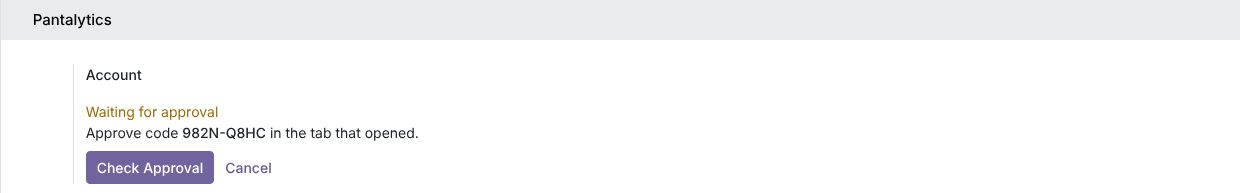
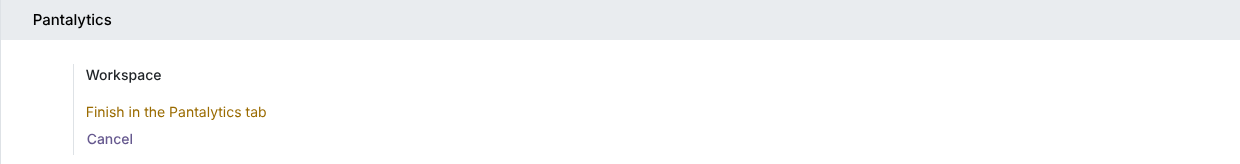
Settings: one verb, one thing: connect to a Pantalytics workspace
The Workspace row shows the button, the wait, or which workspace it is
connected to with Disconnect beside it. No pairing code, no help lines,
no Danger Zone; Mask All Text leaves the page (typed text is always
masked). The workspace name arrives in the signed answer.

Claude-Session: https://claude.ai/code/session_016iWLdF5fFpZC7X6oyzKn3b

diff --git a/pan_self_learning/static/description/index.html b/pan_self_learning/static/description/index.html
@@ -14,7 +14,7 @@
         <div class="oe_span6">
             <h3 class="oe_slogan">One button to set up</h3>
             <p class="oe_mt32">
-                Press Connect Account under Settings, Odoo Self Learning, approve in your browser,
+                Press Connect to Pantalytics under Settings, Odoo Self Learning, approve in your browser,
                 done. No key to type: the PostHog project arrives in a signed
                 answer from Pantalytics, and nothing is sent before you connect.
             </p>

diff --git a/pan_self_learning/models/pan_self_learning_link.py b/pan_self_learning/models/pan_self_learning_link.py
@@ -2,7 +2,7 @@
 """This database's link to a Pantalytics account, and the key it brings.
 
 The module is dormant until somebody connects it. The admin presses
-**Connect Account** on the settings page; Odoo asks the Pantalytics
+**Connect to Pantalytics** on the settings page; Odoo asks the Pantalytics
 server for a pairing and opens its page in a new tab with the code already in
 the link. The admin signs in there, checks that the page names this Odoo, and
 approves; the button back lands on `/self_learning/pantalytics/return`, which
@@ -129,6 +129,8 @@ class PanSelfLearningLink(models.Model):
     server_errors = fields.Boolean(readonly=True, copy=False)
     valid_until = fields.Datetime(readonly=True)
     message = fields.Char(readonly=True)
+    # The Pantalytics workspace this Odoo reports to, as the signed answer names it.
+    workspace_name = fields.Char(readonly=True, copy=False)
     entitlement_json = fields.Text(readonly=True, copy=False)
     signature = fields.Char(readonly=True, copy=False)
 
@@ -286,6 +288,7 @@ class PanSelfLearningLink(models.Model):
             'server_errors': False,
             'valid_until': False,
             'message': False,
+            'workspace_name': False,
             'last_error': False,
             'connected_user_id': self.env.user.id,
             'connected_on': fields.Datetime.now(),
@@ -318,6 +321,7 @@ class PanSelfLearningLink(models.Model):
             'server_errors': False,
             'valid_until': False,
             'message': False,
+            'workspace_name': False,
             'entitlement_json': False,
             'signature': False,
             'last_error': False,
@@ -402,6 +406,7 @@ class PanSelfLearningLink(models.Model):
             'server_errors': bool(payload.get('server_errors')),
             'valid_until': _naive_utc(payload.get('valid_until')),
             'message': payload.get('message') or False,
+            'workspace_name': (payload.get('workspace_name') or '')[:128] or False,
             'entitlement_json': json.dumps(payload, sort_keys=True),
             'signature': signature,
             'last_check': now,

diff --git a/pan_self_learning/models/res_config_settings.py b/pan_self_learning/models/res_config_settings.py
@@ -9,7 +9,7 @@ a switch for a sensor that is off is a page that looks broken. The
 to silence the module without disconnecting it (ir_http.py reads it); it is
 not on the screen.
 """
-from odoo import api, fields, models
+from odoo import _, api, fields, models
 
 from .pan_self_learning_link import STATUS_SELECTION
 
@@ -63,6 +63,7 @@ class ResConfigSettings(models.TransientModel):
     pan_self_learning_last_error = fields.Char(compute="_compute_pan_self_learning_link")
     pan_self_learning_message = fields.Char(compute="_compute_pan_self_learning_link")
     pan_self_learning_connected_by = fields.Char(compute="_compute_pan_self_learning_link")
+    pan_self_learning_connected_to = fields.Char(compute="_compute_pan_self_learning_link")
 
     def _compute_pan_self_learning_session_replay(self):
         off = self.env["ir.config_parameter"].sudo().get_param(
@@ -115,6 +116,10 @@ class ResConfigSettings(models.TransientModel):
             when = link.connected_on if link else False
             record.pan_self_learning_connected_by = (
                 "%s, %s" % (who.name, fields.Date.to_string(when)) if who and when else False
+            )
+            name = link.workspace_name if link else False
+            record.pan_self_learning_connected_to = (
+                _("Connected to %s", name) if name else _("Connected")
             )
 
     def _reload(self):

diff --git a/pan_self_learning/__manifest__.py b/pan_self_learning/__manifest__.py
@@ -12,7 +12,7 @@ Odoo backend so you can see where users get stuck.
 Key characteristics
 --------------------
 * **Dormant until connected** - does nothing until an administrator presses
-  *Connect Account* under *Settings > Odoo Self Learning*. The PostHog
+  *Connect to Pantalytics* under *Settings > Odoo Self Learning*. The PostHog
   project arrives in the signed entitlement; no key is ever typed or shipped.
 * **Pseudonymous identity** - users are identified as ``db#uid`` (database name
   plus user id), never by name or email.

diff --git a/docs/design.md b/docs/design.md
@@ -1,38 +1,41 @@
 # Settings page design
 
-The one screen this module has: Settings, Odoo Self Learning. Checked
-against brand.pantalytics.com (Odoo UI, Product UI, Colours, Tone of
-voice) on 2026-11-24. Screenshots are Odoo 19, taken locally.
+The one screen this module has: Settings, Odoo Self Learning. The clickable
+design is the canvas "Self Learning screens" in Claude (Design type);
+screenshots below are Odoo 19, taken locally on 2026-11-24.
+
+## Words
+
+One verb and one thing, on every screen of the flow: this Odoo instance
+**connects** to a Pantalytics **workspace**. Signing in happens on the way
+when it is needed and is never a step of its own. The pairing code is
+plumbing and never shown. (Link is for joining two things that are both
+already in Pantalytics: a local vault to a cloud vault, a partner workspace
+to a company. Connect is for something outside that gets a key.)
 
 ## States
 
-| State | What the account row shows | Screenshot |
+| State | The Workspace row | Screenshot |
 |---|---|---|
-| Not connected | "Not connected. Nothing is sent until you connect." + **Connect Account** | [1](design/1-not-connected.png), [phone](design/5-not-connected-phone.png) |
-| Waiting for approval | amber status, the code, **Check Approval**, Cancel | [2](design/2-pending.png) |
-| Connected | green "Connected", who and when; Reporting and Danger Zone appear | [3](design/3-connected.png) |
-| Disconnected or key refused | red status, Pantalytics' message, **Connect Account** | [4](design/4-disconnected.png) |
+| Not connected | **Connect to Pantalytics**, nothing else | [1](design/1-not-connected.png) |
+| Waiting | amber "Finish in the Pantalytics tab", Cancel; follows by itself | [2](design/2-pending.png) |
+| Connected | green "Connected to Juffermans", Disconnect beside it; Reporting appears | [3](design/3-connected.png) |
+| Disconnected at Pantalytics | red status, **Connect to Pantalytics** | [4](design/4-disconnected.png) |
 
-## Brand check
+On the Pantalytics side the approval page says "Connect *host* for Odoo
+Self Learning to your workspace *X*" when the Odoo instance is already in a
+workspace, and offers a pick of workspace when it is not.
 
-| Rule (source page) | How this page meets it |
+## Brand check (brand.pantalytics.com)
+
+| Rule | How |
 |---|---|
-| One section per product, at most three blocks (Odoo UI) | Pantalytics, Reporting, Danger Zone |
-| Checkboxes, no switches; nothing works until Save (Odoo UI) | Reporting uses Odoo's checkbox settings |
-| One line of explanation per setting (Odoo UI) | Every setting has one short line or none |
-| Odoo's Title Case for labels in the backend (Odoo UI) | Connect Account, Check Approval, Record Sessions |
-| No accent colour or Murecho in the backend (Odoo UI) | Odoo's own buttons and font only |
-| One primary button per screen (Product UI) | Connect Account, or Check Approval while waiting |
-| Colour means status: green works, amber needs the user, red broken (Product UI) | Connected green, Waiting amber, Disconnected red |
-| Destructive actions last, confirmed (Product UI) | Disconnect only in Danger Zone, with a confirm |
-| Confirm: question with the thing, consequence, verb repeated (Product UI) | "Disconnect this Odoo instance from Pantalytics? Reporting stops until you connect again." |
-| State each fact once (Product UI) | Status word once; no repeated "Pantalytics account" title |
-| Fixed term "Odoo instance", never "database" (Product UI) | Page copy uses neither; the confirm says Odoo instance |
+| One section per product, at most three blocks; checkboxes, saved with Save | Pantalytics and Reporting; two checkboxes |
+| Odoo's own buttons, font and Title Case in the backend | yes |
+| One primary button per screen | Connect to Pantalytics, only when not connected |
+| Colour is status: green works, amber needs you, red broken | yes |
+| Stay quiet when fine; state each fact once | no help lines, no "nothing is sent" line |
+| Destructive actions confirmed | Disconnect asks first |
 
-## Open
-
-- Odoo settings cannot collapse a block, so Danger Zone shows whenever the
-  instance is connected instead of folded away.
-- The message under "Disconnected at Pantalytics" comes from the
-  Pantalytics server (`apps/self_learning.py` in odoo-mcp-pro-admin) and
-  still says "database".
+Departure, on purpose: Disconnect sits beside Connected instead of in a
+Danger Zone block; it belongs to that row and is undone by connecting again.

diff --git a/README.md b/README.md
@@ -10,7 +10,7 @@ errors by type and stack, never their text. No personal data leaves Odoo.
 ## Highlights
 
 - **Dormant until connected.** Nothing is sent until an administrator presses
-  *Connect Account* under Settings, Odoo Self Learning. The PostHog project key and host arrive
+  *Connect to Pantalytics* under Settings, Odoo Self Learning. The PostHog project key and host arrive
   in a signed entitlement from Pantalytics; no key is typed, shipped or stored
   in a data file. Disconnect (in Odoo or in the Pantalytics panel) and the
   module goes quiet at its next daily check-in.
@@ -31,7 +31,7 @@ errors by type and stack, never their text. No personal data leaves Odoo.
 
 1. Copy the `pan_self_learning` folder into your Odoo addons path.
 2. Update the apps list and install **Odoo Self Learning**.
-3. Go to **Settings, Odoo Self Learning** and press **Connect Account**.
+3. Go to **Settings, Odoo Self Learning** and press **Connect to Pantalytics**.
    A tab opens on the Pantalytics panel with the code filled in. Sign in,
    check that the page names this Odoo, press Approve, then come back.
 
